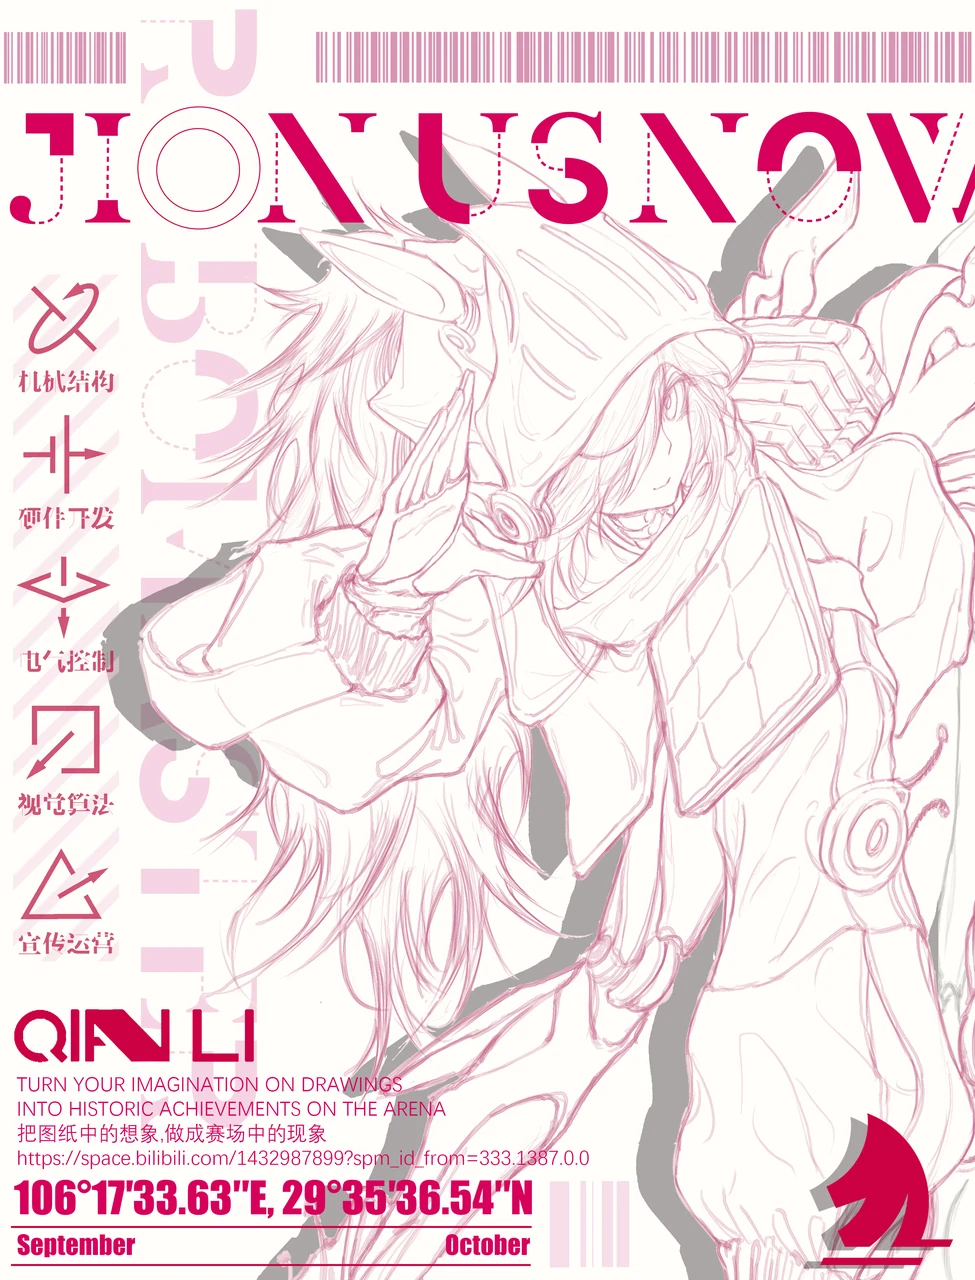
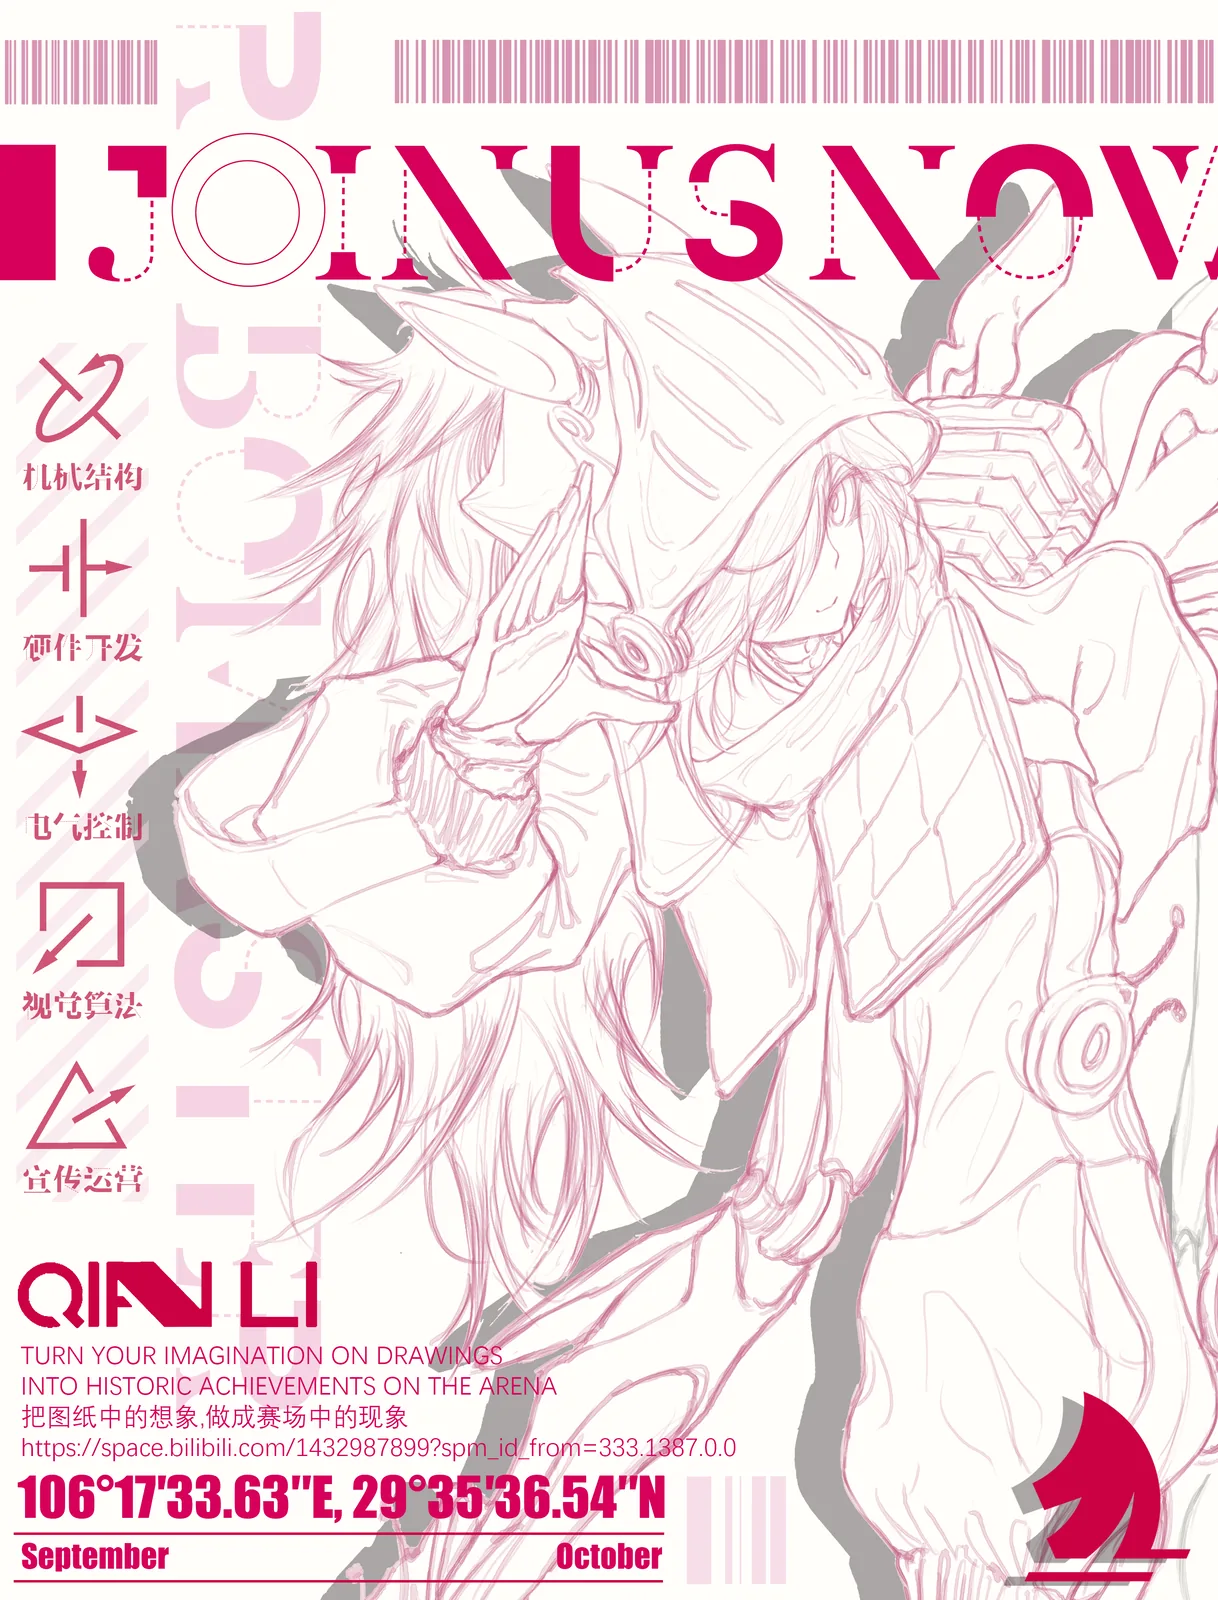
fix: replace incorrect recruitment poster

diff --git a/assets/js/data/gallery.js b/assets/js/data/gallery.js
@@ -15,12 +15,15 @@ function designPhotoSeries(prefix, labels, credit, altPrefix) {
 }
 
 function designPhotoSet(prefix, photos, altPrefix) {
-  return photos.map((photo, index) => ({
-    src: `assets/images/content/archive/gallery/designs/${prefix}-${String(photo.file || index + 1).padStart(2, "0")}.webp`,
-    alt: `${altPrefix}：${photo.meta}`,
-    meta: photo.meta,
-    credit: photo.credit
-  }));
+  return photos.map((photo, index) => {
+    const version = photo.version ? `?v=${photo.version}` : "";
+    return {
+      src: `assets/images/content/archive/gallery/designs/${prefix}-${String(photo.file || index + 1).padStart(2, "0")}.webp${version}`,
+      alt: `${altPrefix}：${photo.meta}`,
+      meta: photo.meta,
+      credit: photo.credit
+    };
+  });
 }
 
 function activityPhotoSeries(collection, prefix, photos, altPrefix) {
@@ -330,14 +333,14 @@ window.QIANLI_GALLERY = {
         category: "posters",
         title: "招新与动员海报",
         meta: "2025–2026 · 招新与赛季动员",
-        preview: "assets/images/content/archive/gallery/designs/campaign-visuals-04.webp",
-        photo: "assets/images/content/archive/gallery/designs/campaign-visuals-04.webp",
+        preview: "assets/images/content/archive/gallery/designs/campaign-visuals-04.webp?v=20260825-1",
+        photo: "assets/images/content/archive/gallery/designs/campaign-visuals-04.webp?v=20260825-1",
         photos: designPhotoSet(
           "campaign-visuals",
           [
             { file: 1, meta: "2025 招新海报", credit: "邓涵尹" },
             { file: 3, meta: "2026 年 1 月动员大会海报", credit: "鄢政" },
-            { file: 4, meta: "2026 年 8 月宣传海报", credit: "鄢政 · OnlyPupPet" },
+            { file: 4, version: "20260825-1", meta: "2026 年 8 月宣传海报", credit: "鄢政 · OnlyPupPet" },
             { file: 8, meta: "招新海报", credit: "李嘉昊" }
           ],
           "千里招新与动员海报"

diff --git a/groups/operations.html b/groups/operations.html
@@ -171,7 +171,7 @@
             <header><p class="page-label">CONTENT MATRIX</p><h3>让不同场景稳定、有辨识度地表达</h3><p>覆盖招新、赛事、日常科普和成果展示，从想法到成品完成全流程；结合热点、用户画像与平台调性进行定制化输出，并在执行中兼顾效率与质量。</p><ul><li>用户画像</li><li>平台调性</li><li>内容排期</li><li>复盘优化</li></ul></header>
             <div class="engineering-project-media-grid operations-content-poster-grid" aria-label="千里战队内容矩阵海报案例">
               <figure class="engineering-project-media"><img src="assets/images/content/archive/gallery/designs/campaign-visuals-03.webp" alt="千里战队 2026 年 1 月动员大会海报" /><figcaption>动员大会 · 活动传播</figcaption></figure>
-              <figure class="engineering-project-media"><img src="assets/images/content/archive/gallery/designs/campaign-visuals-04.webp" alt="千里战队 2026 年 8 月宣传海报" /><figcaption>方向展示 · 招新传播</figcaption></figure>
+              <figure class="engineering-project-media"><img src="assets/images/content/archive/gallery/designs/campaign-visuals-04.webp?v=20260825-1" alt="千里战队 2026 年 8 月宣传海报" /><figcaption>方向展示 · 招新传播</figcaption></figure>
               <figure class="engineering-project-media"><img src="assets/images/content/archive/gallery/designs/campaign-visuals-08.webp" alt="千里战队 2026 年招新海报" /><figcaption>赛季招新 · 社群转化</figcaption></figure>
             </div>
           </section>

diff --git a/museum/gallery.html b/museum/gallery.html
@@ -254,7 +254,7 @@
       <p>域名规划：team.cquqianli.cn</p>
     </footer>
     <script src="assets/js/data/gallery-records.js?v=20260817-1"></script>
-    <script src="assets/js/data/gallery.js?v=20260823-8"></script>
+    <script src="assets/js/data/gallery.js?v=20260825-9"></script>
 <script src="assets/js/data/competition-gallery.js?v=20260824-4"></script>
     <script src="assets/js/core/site.js?v=20260825-81"></script>
   </body>
